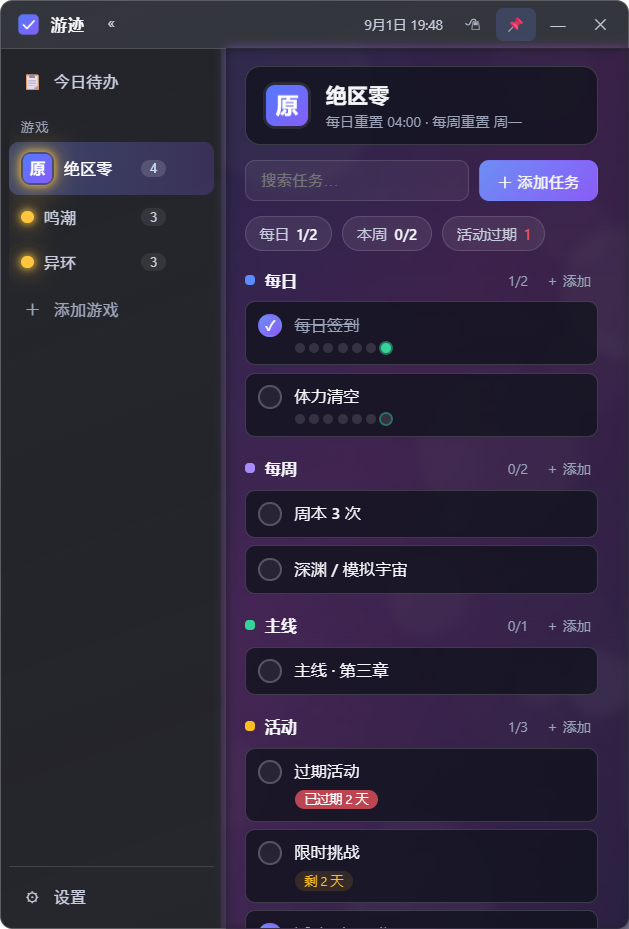
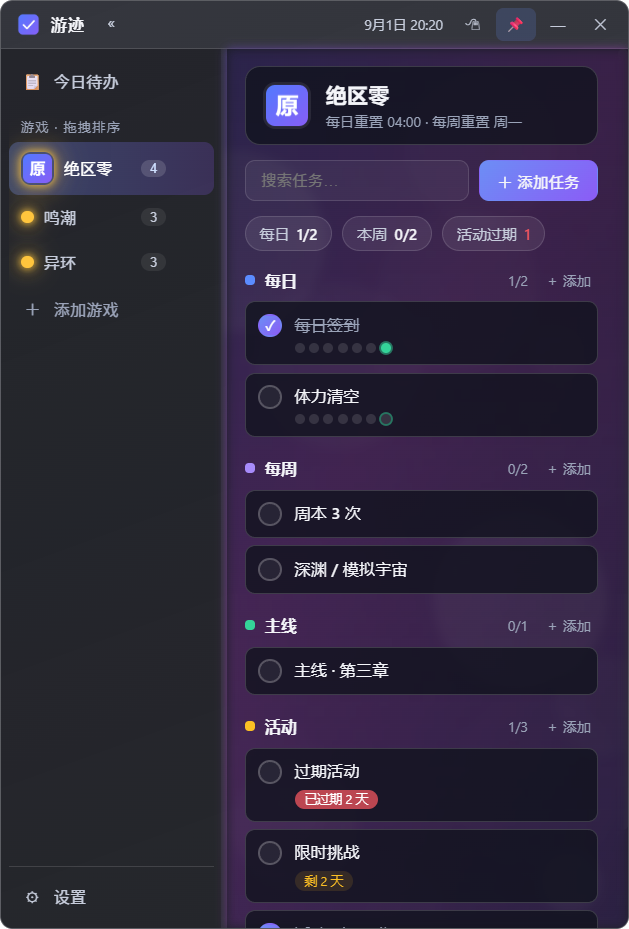
Add sidebar drag sorting and frosted-glass style

Changed region(s): [[0.3323, 0.0312, 1.0, 1.0], [0.0906, 0.1249, 0.1812, 0.1561], [0.6645, 0.0, 0.6948, 0.0312]]

diff --git a/renderer/js/ui.js b/renderer/js/ui.js
@@ -203,7 +203,7 @@ export function initUI(store, api) {
         ? `<span class="g-thumb ${status.level}" title="${STATUS_HINT[status.level]}">${iconThumbInner(g)}</span>`
         : `<span class="g-dot ${status.level}" title="${STATUS_HINT[status.level]}"></span>`;
       return `
-      <button class="nav-item game-item ${state.view === 'game' && state.activeGameId === g.id ? 'active' : ''}" data-action="open-game" data-id="${g.id}" title="${esc(g.name)}（${STATUS_HINT[status.level]}）">
+      <button class="nav-item game-item ${state.view === 'game' && state.activeGameId === g.id ? 'active' : ''}" data-action="open-game" data-id="${g.id}" draggable="true" title="${esc(g.name)}（${STATUS_HINT[status.level]}）· 拖拽可调整顺序">
         ${lead}
         <span class="nav-label">${esc(g.name)}</span>
         ${chips[g.id] ? `<span class="nav-badge">${chips[g.id]}</span>` : ''}
@@ -443,7 +443,6 @@ export function initUI(store, api) {
     const info = store.getInfo() || {};
     const data = store.get();
     const auto = store.getAutoStart();
-    const acrylicOn = data.settings.acrylic !== false;
 
     content.innerHTML = `
       <div class="view-head">
@@ -461,8 +460,8 @@ export function initUI(store, api) {
           <label class="switch"><input type="checkbox" id="sw-pin" ${data.settings.pin ? 'checked' : ''}><span class="slider"></span></label>
         </div>
         <div class="setting-row">
-          <div class="s-label"><b>窗口材质</b><small>${info.isWin11 ? 'Windows 11 系统亚克力（Acrylic）已启用' : '当前系统不支持系统级亚克力，已使用透明窗口 + CSS 高斯模糊'}</small></div>
-          <span class="badge ${acrylicOn ? '' : 'mode'}">${info.isWin11 ? '亚克力' : '模糊回退'}</span>
+          <div class="s-label"><b>窗口材质</b><small>透明毛玻璃（CSS 高斯模糊）· 颜色稳定，点击窗口内外均不变色</small></div>
+          <span class="badge">毛玻璃</span>
         </div>
         <div class="setting-row">
           <div class="s-label"><b>窗口透明度</b><small>调节悬浮窗整体不透明度，游戏内减少遮挡（20%–100%，可 1% 微调）</small></div>
@@ -479,10 +478,6 @@ export function initUI(store, api) {
           <div class="s-label"><b>穿透快捷键</b><small>点击「修改」后直接按下新按键组合（默认 Ctrl+Shift++）</small></div>
           <span class="badge kbd" id="pt-shortcut">${esc(humanizeAccel(data.settings.passthroughShortcut || DEFAULT_PT_SHORTCUT))}</span>
           <button class="btn ghost" id="pt-record">修改</button>
-        </div>
-        <div class="setting-row">
-          <div class="s-label"><b>点击不激活窗口</b><small>避免点击悬浮窗时亚克力颜色变化；开启后输入框可能无法输入（若出现请关闭）</small></div>
-          <label class="switch"><input type="checkbox" id="sw-noactivate" ${data.settings.noActivate ? 'checked' : ''}><span class="slider"></span></label>
         </div>
         <div class="setting-row">
           <div class="s-label"><b>开机自启</b><small>登录系统后自动启动并悬浮</small></div>
@@ -543,7 +538,7 @@ export function initUI(store, api) {
       <div class="settings-block">
         <div class="settings-title">关于</div>
         <div class="setting-row">
-          <div class="s-label"><b>游迹 · 游戏任务记录器</b><small>悬浮置顶 · 亚克力材质 · 多游戏隔离</small></div>
+          <div class="s-label"><b>游迹 · 游戏任务记录器</b><small>悬浮置顶 · 毛玻璃 · 多游戏隔离</small></div>
           <span class="badge">v${esc(info.version || '1.0.0')}</span>
         </div>
         <div class="setting-row">
@@ -986,6 +981,58 @@ export function initUI(store, api) {
       handleAction(action, id, undefined, undefined, e);
     });
 
+    // 侧栏游戏拖拽排序（HTML5 DnD）
+    let dragGameId = null;
+    gameList.addEventListener('dragstart', (e) => {
+      const item = e.target.closest('.game-item');
+      if (!item) return;
+      dragGameId = item.dataset.id;
+      item.classList.add('dragging');
+      if (e.dataTransfer) {
+        e.dataTransfer.effectAllowed = 'move';
+        e.dataTransfer.setData('text/plain', dragGameId);
+      }
+    });
+    gameList.addEventListener('dragover', (e) => {
+      e.preventDefault();
+      if (e.dataTransfer) e.dataTransfer.dropEffect = 'move';
+      const item = e.target.closest('.game-item');
+      document.querySelectorAll('.game-item').forEach((el) => el.classList.remove('drag-over-before', 'drag-over-after'));
+      if (item && item.dataset.id !== dragGameId) {
+        const rect = item.getBoundingClientRect();
+        item._dropBefore = (e.clientY - rect.top) < rect.height / 2;
+        item.classList.add(item._dropBefore ? 'drag-over-before' : 'drag-over-after');
+      }
+    });
+    gameList.addEventListener('dragleave', (e) => {
+      if (!gameList.contains(e.relatedTarget)) {
+        document.querySelectorAll('.game-item').forEach((el) => el.classList.remove('drag-over-before', 'drag-over-after'));
+      }
+    });
+    gameList.addEventListener('drop', (e) => {
+      e.preventDefault();
+      const target = e.target.closest('.game-item');
+      const clear = () => {
+        document.querySelectorAll('.game-item').forEach((el) => el.classList.remove('dragging', 'drag-over-before', 'drag-over-after'));
+        dragGameId = null;
+      };
+      if (!target || !dragGameId || target.dataset.id === dragGameId) return clear();
+      const ids = store.get().games.map((g) => g.id);
+      const from = ids.indexOf(dragGameId);
+      if (from < 0) return clear();
+      ids.splice(from, 1);
+      const to = ids.indexOf(target.dataset.id);
+      if (to < 0) return clear();
+      ids.splice(target._dropBefore ? to : to + 1, 0, dragGameId);
+      clear();
+      store.reorderGames(ids);
+      toast('游戏顺序已更新', 'ok');
+    });
+    gameList.addEventListener('dragend', () => {
+      document.querySelectorAll('.game-item').forEach((el) => el.classList.remove('dragging', 'drag-over-before', 'drag-over-after'));
+      dragGameId = null;
+    });
+
     $('#btn-add-game').addEventListener('click', () => openGameModal());
 
     // 侧栏宽度拖拽（分隔条）
@@ -1024,7 +1071,6 @@ export function initUI(store, api) {
       else if (e.target.id === 'sw-auto') store.setAutoStart(e.target.checked);
       else if (e.target.id === 'sw-sidebar') { store.setSettings({ sidebarCollapsed: e.target.checked }); renderAll(); }
       else if (e.target.id === 'sw-pt') store.setPassthrough(e.target.checked);
-      else if (e.target.id === 'sw-noactivate') store.setNoActivate(e.target.checked);
       else if (e.target.id === 'gs-bg-file') {
         const f = e.target.files && e.target.files[0];
         if (!f) return;

diff --git a/renderer/js/main.js b/renderer/js/main.js
@@ -14,9 +14,6 @@ const api = window.api;
 const store = createStore(api);
 await store.init();
 
-// Win10 等不支持系统亚克力时，启用 CSS backdrop-filter 回退
-if (!store.getInfo()?.isWin11) document.body.classList.add('fallback-blur');
-
 const ui = initUI(store, api);
 ui.renderAll();
 
@@ -384,7 +381,7 @@ async function runSmoke() {
   ptBtn.click();
   await new Promise((r) => setTimeout(r, 60));
   check('穿透: 按钮关闭后恢复鼠标交互', (await api.winGetPassthrough()) === false);
-  const scRes = await api.winSetPassthroughShortcut('CommandOrControl+Shift+=');
+  const scRes = await api.winSetPassthroughShortcut('CommandOrControl+Alt+9');
   check('快捷键: 自定义穿透快捷键注册成功', Boolean(scRes && scRes.ok));
 
   // 23. 侧栏收起按钮位于标题栏左侧
@@ -396,8 +393,27 @@ async function runSmoke() {
   const opInput = document.querySelector('#gs-opacity');
   check('透明度: 滑块支持 1% 微调', Boolean(opInput && opInput.step === '1' && opInput.min === '20'));
   check('快捷键: 设置页展示穿透快捷键徽标与修改按钮', Boolean(document.querySelector('#pt-shortcut') && document.querySelector('#pt-record')));
-  check('设置: 点击不激活窗口开关存在', Boolean(document.querySelector('#sw-noactivate')));
   check('设置: 示例数据入口已移除', !document.querySelector('[data-action="load-sample"]'));
+  check('设置: 材质显示为毛玻璃(无系统亚克力文案)', Boolean(document.querySelector('.setting-row .badge') && ![...document.querySelectorAll('.setting-row')].some((r) => r.textContent.includes('亚克力'))));
+
+  // 25. 侧栏游戏拖拽排序（HTML5 DnD 合成事件）
+  const orderBefore = store.get().games.map((g) => g.id);
+  const gi = [...document.querySelectorAll('.game-item')];
+  const srcItem = gi.find((el) => el.dataset.id === orderBefore[1]); // 游戏B
+  const dstItem = gi.find((el) => el.dataset.id === orderBefore[0]); // 游戏A
+  check('侧栏: 游戏项可拖拽(draggable)', gi.every((el) => el.draggable));
+  if (srcItem && dstItem) {
+    srcItem.dispatchEvent(new DragEvent('dragstart', { bubbles: true }));
+    const rect = dstItem.getBoundingClientRect();
+    dstItem.dispatchEvent(new DragEvent('dragover', { bubbles: true, clientY: rect.top + 4 }));
+    dstItem.dispatchEvent(new DragEvent('drop', { bubbles: true }));
+    srcItem.dispatchEvent(new DragEvent('dragend', { bubbles: true }));
+    await new Promise((r) => setTimeout(r, 100));
+    const orderAfter = store.get().games.map((g) => g.id);
+    check('侧栏: 拖拽游戏B到游戏A前 → 顺序改变', orderAfter[0] === orderBefore[1] && orderAfter[1] === orderBefore[0]);
+    const domNames = [...document.querySelectorAll('.game-item .nav-label')].map((e) => e.textContent);
+    check('侧栏: DOM 顺序与数据一致', domNames[0] === '游戏B' && domNames[1] === '游戏A');
+  }
 
   const ok = checks.every((c) => c.pass);
   const d = store.get();

diff --git a/renderer/js/store.js b/renderer/js/store.js
@@ -47,8 +47,6 @@ export function createStore(api) {
     // 应用持久化的鼠标穿透状态与快捷键（默认 Ctrl+Shift++）
     try { await api.winSetPassthroughShortcut(data.settings.passthroughShortcut || 'CommandOrControl+Shift+='); } catch { /* noop */ }
     try { await api.winSetPassthrough(Boolean(data.settings.passthrough)); } catch { /* noop */ }
-    // 应用"点击不激活窗口"设置
-    try { await api.winSetFocusable(!Boolean(data.settings.noActivate)); } catch { /* noop */ }
     notify();
   }
 
@@ -201,14 +199,14 @@ export function createStore(api) {
     scheduleSave();
   }
 
-  /** 窗口点击是否激活（false=点击不激活窗口，避免亚克力变色） */
-  async function setNoActivate(v) {
-    const p = Boolean(v);
-    data = { ...data, settings: { ...data.settings, noActivate: p } };
-    scheduleSave();
-    try { await api.winSetFocusable(!p); } catch { /* noop */ }
-    notify();
-    return p;
+  /** 侧边栏拖拽排序：按给定 id 顺序重排游戏并重写 sortOrder */
+  function reorderGames(orderedIds) {
+    const byId = new Map(data.games.map((g) => [g.id, g]));
+    const next = [];
+    for (const id of orderedIds || []) { const g = byId.get(id); if (g) next.push(g); }
+    for (const g of data.games) if (!next.includes(g)) next.push(g); // 兜底：保留遗漏项
+    data = { ...data, games: next.map((g, i) => ({ ...g, sortOrder: i })) };
+    scheduleSave(); notify();
   }
 
   // ---------- 数据工具 ----------
@@ -243,10 +241,10 @@ export function createStore(api) {
 
   return {
     get, getInfo, getAutoStart, subscribe, init,
-    addGame, updateGame, deleteGame,
+    addGame, updateGame, deleteGame, reorderGames,
     addTask, updateTask, deleteTask, toggleTask,
     setPin, setAutoStart, setSettings, setSettingsSilent, setOpacity,
-    setPassthrough, setPassthroughShortcut, setNoActivate,
+    setPassthrough, setPassthroughShortcut,
     exportData, importData, clearAll, openDataDir,
     tidy,
   };

diff --git a/renderer/css/app.css b/renderer/css/app.css
@@ -38,22 +38,20 @@ html, body {
   font-family: "Segoe UI", "Microsoft YaHei UI", "PingFang SC", system-ui, sans-serif;
   font-size: 13px;
   color: var(--text);
-  background: transparent; /* 关键：让亚克力/桌面透出 */
+  background: transparent; /* 关键：让桌面透出 */
   -webkit-font-smoothing: antialiased;
   user-select: none;
 }
 
-/* Win10 回退：CSS 高斯模糊模拟亚克力 */
-body.fallback-blur #app {
-  backdrop-filter: blur(26px) saturate(1.45);
-  background: rgba(23, 25, 33, 0.86);
-}
-
+/* 透明毛玻璃：CSS backdrop-filter 模糊桌面。
+   不使用系统亚克力——系统亚克力随窗口焦点切换"激活/非激活"色调，点击界面外部会变色 */
 #app {
   display: flex;
   flex-direction: column;
   height: 100vh;
   background: linear-gradient(160deg, var(--bg-a) 0%, var(--bg-b) 100%);
+  -webkit-backdrop-filter: blur(24px) saturate(1.45);
+  backdrop-filter: blur(24px) saturate(1.45);
   border: 1px solid var(--border-strong);
   border-radius: 10px;
   overflow: hidden;
@@ -256,6 +254,13 @@ body.sidebar-collapsed .game-view-bg-mask { left: 0; }
 }
 .game-item:hover .g-edit { opacity: 1; }
 .game-item .g-edit:hover { color: var(--text); background: var(--panel-strong); }
+
+/* 侧栏游戏拖拽排序 */
+.game-item { cursor: grab; }
+.game-item:active { cursor: grabbing; }
+.game-item.dragging { opacity: 0.45; }
+.game-item.drag-over-before { box-shadow: inset 0 2px 0 var(--accent); }
+.game-item.drag-over-after { box-shadow: inset 0 -2px 0 var(--accent); }
 
 /* ============================================================
    内容区

diff --git a/renderer/index.html b/renderer/index.html
@@ -30,7 +30,7 @@
       <aside id="sidebar">
         <nav id="sidebar-nav">
           <button class="nav-item" data-view="dashboard"><span class="nav-ico">📋</span><span class="nav-label">今日待办</span></button>
-          <div class="sidebar-caption">游戏</div>
+          <div class="sidebar-caption">游戏 · 拖拽排序</div>
           <div id="game-list"></div>
           <button class="nav-item nav-add" id="btn-add-game"><span class="nav-ico">＋</span><span class="nav-label">添加游戏</span></button>
         </nav>

diff --git a/docs/02-系统设计.md b/docs/02-系统设计.md
@@ -8,9 +8,9 @@
 
 | 项 | 选择 | 理由 |
 | --- | --- | --- |
-| 桌面框架 | **Electron**（主进程 CJS，渲染层 ESM） | 跨平台、亚克力支持成熟（`backgroundMaterial`）、生态成熟 |
+| 桌面框架 | **Electron**（主进程 CJS，渲染层 ESM） | 跨平台、生态成熟 |
 | 窗口形态 | 无边框 + `alwaysOnTop` + 自绘标题栏 | 满足"悬浮于桌面最上端" |
-| 亚克力 | Win11：`backgroundMaterial:'acrylic'`；Win10 回退：`transparent:true` + CSS `backdrop-filter` | 系统级亚克力最正宗；回退方案保持观感一致 |
+| 毛玻璃 | `transparent:true` + CSS `backdrop-filter` 高斯模糊 | 颜色由 CSS 完全控制，不随窗口焦点变化（系统亚克力会因焦点切换色调） |
 | 持久化 | 主进程写 `userData/data.json`，临时文件 + 原子替换 | 比 localStorage 可靠、可备份、可导出 |
 | 渲染层 | 原生 HTML/CSS/ES Modules，无框架 | 轻量、常驻内存占用小、零构建 |
 | 图标 | 纯 Node（zlib 手写 PNG → ICO 容器） | 零依赖生成应用图标 |
@@ -21,7 +21,7 @@
 ```
 ┌─────────────────────────────────────────────┐
 │  Electron 主进程 (main.cjs)                  │
-│  · BrowserWindow 悬浮/亚克力/置顶            │
+│  · BrowserWindow 悬浮/毛玻璃/置顶            │
 │  · 系统托盘 / 开机自启 / 窗口控制            │
 │  · 数据文件读写（原子替换）+ 导入导出        │
 │  · 截图模式 / 冒烟模式                       │
@@ -115,14 +115,14 @@
 
 ## 6. 关键实现要点
 
-### 6.1 亚克力
+### 6.1 毛玻璃（透明 + CSS 模糊）
 ```js
-const isWin11 = process.platform === 'win32' && os.release().split('.').map(Number)[2] >= 22000;
-win = new BrowserWindow({ frame:false, alwaysOnTop:true,
-  ...(isWin11 && electronVersionMajor>=23 ? { backgroundMaterial:'acrylic' } : { transparent:true }),
+win = new BrowserWindow({ frame:false, alwaysOnTop:true, transparent:true,
+  backgroundColor:'#00000000',
   webPreferences:{ preload, contextIsolation:true, nodeIntegration:false, spellcheck:false } });
 ```
-渲染层背景半透明（`rgba`），亚克力从 OS 透出；Win10 回退由 CSS `backdrop-filter: blur()` 承担。
+渲染层 `#app` 使用半透明 `rgba` 渐变 + `backdrop-filter: blur(24px)`，模糊桌面透出；
+弃用系统亚克力（`backgroundMaterial`）——其会随窗口焦点在激活/非激活间切换色调，点击界面外部时颜色变化。
 
 ### 6.2 原子写盘
 ```js

diff --git a/README.md b/README.md
@@ -1,6 +1,6 @@
 # 游迹 · 游戏任务记录器（GameRemainder）
 
-> 面向 PC 的**悬浮置顶 + 亚克力材质**游戏任务记录器。
+> 面向 PC 的**悬浮置顶 + 透明毛玻璃**游戏任务记录器。
 > 解决"游戏太多、记不清还有哪些没做"的痛点：每日 / 每周 / 主线 / 活动四类任务，多游戏严格隔离。
 
 ![今日待办](docs/screenshots/01-今日待办.png)
@@ -18,7 +18,7 @@
 | 能力 | 说明 |
 | --- | --- |
 | 🪟 **悬浮置顶** | 窗口常驻桌面最上层；📌 按钮 / `Ctrl+Shift+P` 随时切换；关闭收进托盘常驻 |
-| 🌫 **亚克力材质** | Windows 11 使用系统级 Acrylic；Win10 自动回退"透明窗口 + CSS 高斯模糊" |
+| 🌫 **透明毛玻璃** | 透明窗口 + CSS `backdrop-filter` 高斯模糊，颜色稳定（点击窗口内外均不变色） |
 | 🎮 **多游戏隔离** | 每款游戏独立的任务与完成记录，互不可见 |
 | 📅 **四类任务** | 每日（按游戏重置小时自动重置）/ 每周（按重置日）/ 主线（手动保持）/ 活动（截止倒计时、过期高亮） |
 | ✅ **周期完成判定** | 每日任务显示"近 7 天完成点阵"；勾选按当前周期记录，跨周期自动归零 |
@@ -61,11 +61,11 @@ npm run pack:dir        # 生成免安装目录（dist/win-unpacked）
 
 ```
 GameRemainder/
-├── main.cjs               # Electron 主进程：悬浮/亚克力/托盘/原子写盘/冒烟与截图模式
+├── main.cjs               # Electron 主进程：悬浮/毛玻璃/托盘/原子写盘/冒烟与截图模式
 ├── preload.cjs            # contextBridge 安全 IPC
 ├── renderer/
 │   ├── index.html         # 页面骨架（自绘标题栏/侧栏/内容区）
-│   ├── css/app.css        # 亚克力友好的半透明深色主题
+│   ├── css/app.css        # 透明毛玻璃深色主题
 │   └── js/
 │       ├── model.js       # 领域模型（纯函数：周期键/到期/统计）→ 可单测
 │       ├── store.js       # 状态层：CRUD + 防抖保存

diff --git a/docs/03-测试与验证.md b/docs/03-测试与验证.md
@@ -49,7 +49,7 @@
 | `01-今日待办.png` | 总览视图：统计标签、跨游戏未完成任务分组 |
 | `02-游戏视图.png` | 单游戏视图：分类区块与任务卡片 |
 | `03-添加任务弹窗.png` | 任务编辑弹窗 |
-| `04-桌面亚克力实拍.png` | 桌面实拍裁剪（窗口区域） |
+| `04-桌面毛玻璃实拍.png` | 桌面实拍裁剪（窗口区域） |
 | `05-桌面全景.png` | 全屏桌面（供像素分析） |
 
 同时执行 **DOM 布局审计**：窗口 503×743、无水平溢出（长游戏名按设计省略号截断）、游戏视图 10 张任务卡片 + 4 个分类区块、总览 24 行待办。
@@ -64,6 +64,6 @@
 本次开发/验证环境（虚拟桌面会话）存在两项无法在环境内验证的限制，代码均采用标准实现，在普通 Windows 桌面上生效：
 
 1. **置顶**：该环境连原生 Win32 `SetWindowPos(HWND_TOPMOST)` 都无法维持置顶（检测到全屏覆盖窗口），故 `isAlwaysOnTop()` 在此环境报告 false。实现为标准 Electron 置顶模式（窗口显示后重新应用，规避隐藏窗口时设置被忽略的已知问题）。
-2. **亚克力**：该环境桌面背景近乎纯黑，像素级窗内外方差对比无法证明模糊效果。`backgroundMaterial:'acrylic'` 设置成功无报错；Win10 另有 `transparent + backdrop-filter` 回退。
+2. **毛玻璃模糊**：该环境桌面背景近乎纯黑，像素级窗内外方差对比无法证明模糊效果。实现为标准 `transparent + CSS backdrop-filter`，颜色由 CSS 完全控制、不随焦点变化。
 
-**建议在真实桌面上按 README 快速开始运行，确认置顶与亚克力观感。**
+**建议在真实桌面上按 README 快速开始运行，确认置顶与毛玻璃观感。**

diff --git a/docs/01-需求分析.md b/docs/01-需求分析.md
@@ -34,7 +34,7 @@
 | 编号 | 需求 | 说明 |
 | --- | --- | --- |
 | F1.1 | **悬浮于桌面最上端** | 窗口默认 `alwaysOnTop`，并提供钉住/取消钉住开关（含全局快捷键） |
-| F1.2 | **亚克力材质（Acrylic）** | Windows 11 使用系统 `backgroundMaterial: 'acrylic'`；Windows 10 回退为透明窗口 + CSS `backdrop-filter` 高斯模糊 |
+| F1.2 | **透明毛玻璃（CSS 高斯模糊）** | 透明窗口 + `backdrop-filter` 模糊桌面；颜色由 CSS 完全控制，点击窗口内外均不变色（弃用系统亚克力：其随焦点切换色调） |
 | F1.3 | 无边框窗口 | 自绘标题栏（拖拽区域 + 最小化/置顶/关闭按钮） |
 | F1.4 | 系统托盘 | 最小化/关闭时收进托盘，常驻不退出；托盘菜单可显示/退出 |
 | F1.5 | 开机自启（可选） | 设置中开关 |
@@ -84,7 +84,7 @@
 
 ## 6. 验收标准
 
-1. 双击 `npm start` 后窗口悬浮于桌面最上层，带亚克力模糊质感；
+1. 双击 `npm start` 后窗口悬浮于桌面最上层，带毛玻璃模糊质感；
 2. 可添加 ≥2 款游戏，各自任务互不可见；
 3. 每日任务在配置的重置小时自动变为"未完成"；每周同理；
 4. 活动任务显示截止倒计时，过期红色高亮；
